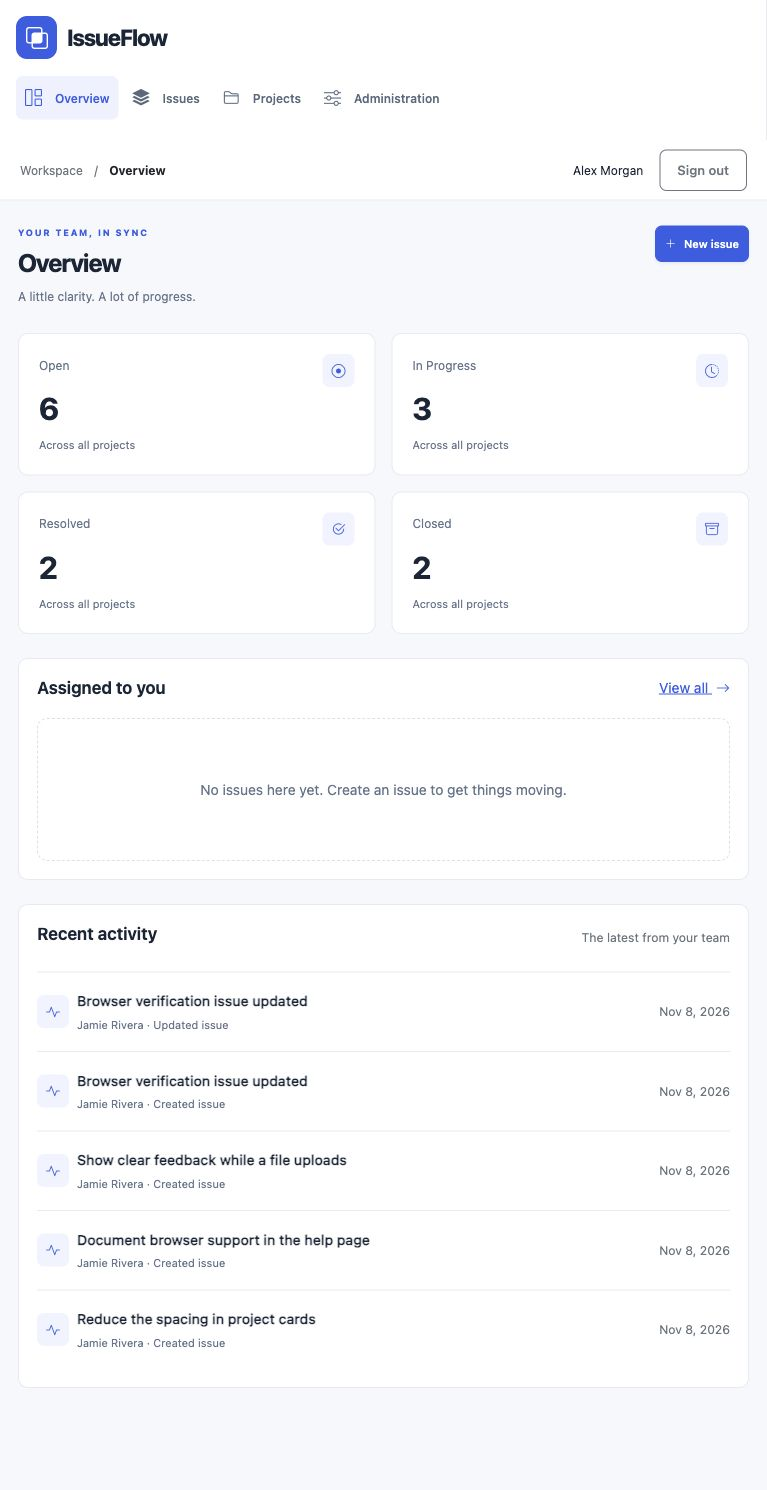
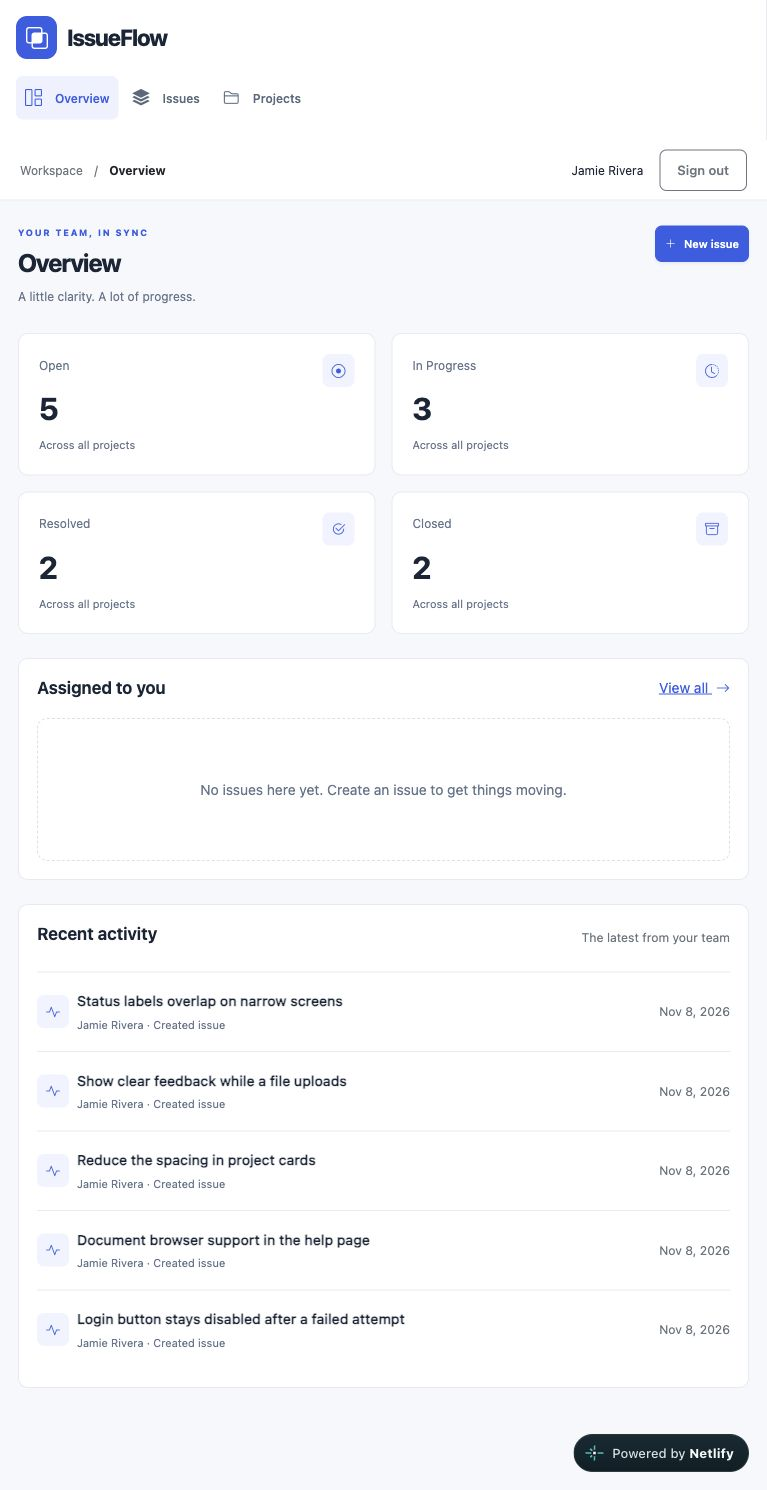
deploy: publish app and document evaluator walkthrough

diff --git a/public/404.html b/public/404.html
@@ -1,0 +1,1 @@
+<!doctype html><html lang="en"><head><meta charset="utf-8"><meta name="viewport" content="width=device-width,initial-scale=1"><title>Page not found · IssueFlow</title></head><body><main><h1>Page not found</h1><p>This page does not exist.</p><a href="/index.html">Return to IssueFlow</a></main></body></html>

diff --git a/docs/progress.md b/docs/progress.md
@@ -1,36 +1,48 @@
 # Implementation progress
 
-Started November 8, 2026 (Europe/Sofia).
+State: `paused_before_commit_14` once this thirteenth milestone is pushed and its production rollout is verified in chat. Do not create another implementation commit on November 8.
 
-- Milestone 1: scope and agent instructions prepared; Git identity and remote connection pending.
-- Milestones 2–13: pending.
-- Milestone 14: reserved for November 9; user continuation required.
-- Milestone 15: reserved for November 10; user continuation required.
+Live app: https://issueflow-petarbinev.netlify.app
+Repository: https://github.com/petarbinev/issueflow
+Supabase project: `ynpgrmkpfdlikckuravp` (IssueFlow, Frankfurt).
+Netlify project: `b6d85424-5e59-4a38-bfe5-705c0d3d76bc`, team `pbinev`, Git deployment from `main`.
 
-GitHub and Supabase connections are not yet confirmed. No cloud acceptance tests have run.
+## Commit ledger
 
-Milestone 1: pushed `59b3e0d` to https://github.com/petarbinev/issueflow.
-Milestone 2: eight-page Vite scaffold, shared responsive shell, environment handling, CI, and validation checks prepared. Lint, 2 tests, and all eight production HTML outputs passed.
-Supabase project: `ynpgrmkpfdlikckuravp` (IssueFlow, Frankfurt), created with the user's organization confirmation.
+| Milestone | SHA | Actual author timestamp | Scope |
+|---|---|---|---|
+| 1 | `59b3e0d` | 2026-11-08T09:51:15+02:00 | docs: define project scope and development rules |
+| 2 | `7ccfa1a` | 2026-11-08T09:55:22+02:00 | chore: scaffold Vite multi-page app and checks |
+| 3 | `7a7f0d5` | 2026-11-08T09:57:41+02:00 | feat: add database schema and reproducible migrations |
+| 4 | `61f69dd` | 2026-11-08T10:01:06+02:00 | feat: enforce roles and database access policies |
+| 5 | `a67b518` | 2026-11-08T10:01:59+02:00 | feat: implement authentication and shared navigation |
+| 6 | `fe82f0c` | 2026-11-08T10:03:04+02:00 | feat: add project browser and dashboard |
+| 7 | `870b4a7` | 2026-11-08T10:03:30+02:00 | feat: implement issue creation and editing |
+| 8 | `61bc353` | 2026-11-08T10:04:40+02:00 | feat: add issue search filters and pagination |
+| 9 | `b1946af` | 2026-11-08T10:06:17+02:00 | feat: add issue discussion and activity history |
+| 10 | `0598e86` | 2026-11-08T10:07:50+02:00 | feat: add secure attachment upload and download |
+| 11 | `a23f481` | 2026-11-08T10:08:21+02:00 | feat: implement administrator management tools |
+| 12 | `042d711` | 2026-11-08T10:16:28+02:00 | test: verify responsive workflows and authorization |
+| 13 | See the commit containing this checkpoint | November 8, 2026 | Deploy configuration, live app, setup and evaluator documentation |
 
-Milestone 3: seven-table schema applied to the empty hosted project with RLS enabled on all tables. Local embedded PostgreSQL rebuild and constraint checks passed (3 tests total). Local migration filename matches hosted migration version `20261108075544`. ER diagram added.
+The milestone 13 SHA and final deployment/CI result are reported in the implementation chat; inspect `git log -1` for the exact checkpoint. No amended commit is needed to record its own SHA.
 
-Milestone 4: hosted RLS, column grants, assignee restrictions, provisioning, activity triggers and serialized last-admin protection applied. Four local tests pass, including direct SQL authorization attempts under the authenticated/anon roles. These simulate auth/storage schemas; hosted API tests remain required.
+## Verified
 
-Milestone 5: registration/login forms, confirmation guidance, sign-out, session guards, role-aware navigation, safe rendering and error handling implemented. Lint, four local tests and production build pass; hosted auth journey to be checked in milestone 12.
+- All milestones 1–12 were individually committed and pushed; GitHub Actions passed each code-bearing push.
+- Local ESLint, four tests, and eight-entry Vite production build passed.
+- Embedded PostgreSQL tests rebuild the application schema and check foreign keys, constraints, role escalation, assignee restrictions, immutable reporter identity, forged activity, last-admin protection, and actual API-role function grants. Auth and Storage metadata are simulated locally.
+- Hosted API checks passed for three confirmed demo logins, guest denial, admin permissions, issue/comment ownership, assignee status updates, and private file upload/download byte equality/delete restrictions and cleanup.
+- Browser verified login, dashboard, projects, search, issue create/edit, comment persistence, sign-out/admin login, member admin-page denial and admin panel display. Temporary verification issue was cleaned up.
+- Production member login, direct issue navigation and reload passed. All eight HTML URLs returned HTTP 200 and a missing page returned HTTP 404.
+- Supabase Auth site URL and production/local `/index.html` returns saved and observed. Actual new-user email delivery has not been exercised.
+- Local/remote migrations match versions 20261108075544, 20261108075747, 20261108080623, 20261108081410.
+- Security advisor inherited-function-grant warnings were fixed. Intended authenticated helper/RPC notices and disabled leaked-password protection are explained in docs/security.md.
+- A fictional `sample-evidence.txt` attachment is stored on the demo login issue; a provisioning script is included.
 
-Milestone 6: projects browser and dashboard use Supabase queries for status counts, assigned issues, and recent activity. Empty states implemented; lint and production build pass. Demo data and live journey checks remain pending.
+## Remaining work on the two reserved days
 
-Milestone 7: create/edit/detail/delete issue workflow implemented, including permission-aware actions, validated fields, assignment and unsaved-change warning. Lint and production build pass. Storage prevents deleting issues that still contain files.
+- **November 9, 2026 (Europe/Sofia), commit 14:** fresh-day regression review, real phone-width/device QA, persisted sessions/direct navigation/retry cases, and any discovered fixes. Available browser viewport overrides were clamped to an observed 767px, so 375px and 1440px checks are not claimed.
+- **November 10, 2026 (Europe/Sofia), commit 15:** fresh-checkout setup validation, final screenshots/submission/evidence audit, demo-account review and final live checks. Verify at least 15 public commits on three actual dates.
 
-Milestone 8: title search, combined project/status/priority/assignee filters, stable server pagination, URL persistence and reset controls implemented. Lint and production build pass.
-
-Milestone 9: comments create/edit/delete, reporter/assignee status controls and database-written activity history implemented. Lint and build pass. Fictional demo accounts, two projects and twelve sample issues provisioned in the dedicated project for live testing; no real user data used.
-
-Milestone 10: private bucket migration applied, local filename matches remote `20261108080623`; attachment upload/download/delete and partial-failure cleanup implemented. Four local tests and production build pass. Live file round trip is scheduled in milestone 12.
-
-Milestone 11: admin project create/edit/archive/restore, transactional member/admin role management, and moderation navigation implemented. Member access blocked by both page guard and database. Lint/build pass; live verification underway.
-
-Milestone 12: live API tests passed for three demo logins, guest denial, role/project restrictions, reporter/assignee column permissions, comment ownership and private file byte integrity/cleanup. Browser verified member login, dashboard, projects/search, issue create/edit, comment persistence, sign-out, admin access and member denial. Saved dashboard screenshot. Browser viewport override was clamped to 767px; phone-size QA remains pending and is explicitly recorded in the evidence file.
-
-Security-advisor findings about inherited function grants were fixed in migration `20261108081410`; tests now simulate Supabase default grants and assert internal trigger functions are not client-executable. Hosted API tests passed again after hardening. Remaining advisor notices are documented in docs/security.md.
+Resume each only when the user returns on that date or later. Keep actual timestamps, no empty commits, no squashing/backdating. Pause and notify after commit 14 as well.

diff --git a/README.md b/README.md
@@ -1,9 +1,49 @@
 # IssueFlow
 
-A small-team issue tracker built for the SoftUni Software Technologies with AI capstone.
+IssueFlow is a small-team issue tracker built for the SoftUni **Software Technologies with AI** capstone. Track issues across projects, assign work, discuss updates, upload evidence, and follow progress from Open to Closed.
 
-Stack: vanilla JavaScript, HTML/CSS, Bootstrap, Vite; Supabase Database/Auth/Storage; GitHub; Netlify.
+- **Frontend:** HTML, CSS, vanilla JavaScript, Bootstrap and Bootstrap Icons, Vite.
+- **Backend:** Supabase PostgreSQL, Auth, REST API and private Storage.
+- **Delivery:** public GitHub repository and Git-based Netlify deployment.
 
-See [PROJECT_PLAN.md](PROJECT_PLAN.md) for assessment coverage and the fifteen-commit delivery schedule. See [docs/progress.md](docs/progress.md) for actual implementation status.
+## Run locally
 
-Implementation in progress. Cloud services and evaluator accounts have not been provisioned yet.
+Use Node 24. Run `npm ci`, copy `.env.example` to `.env.local`, enter your Supabase URL and public publishable key, then run `npm run dev`. The terminal prints the local app URL. Run `npm run check` for lint, local tests and the production build.
+
+See [deployment and database setup](docs/deployment.md) for migrations, local Supabase, and hosting configuration.
+
+## Users and features
+
+All registered users share one team workspace. Members create and manage their reported issues, update issues assigned to them, and manage their own comments/files. Admins manage projects and roles and moderate team content. Database policies enforce the same rules when the UI is bypassed.
+
+Eight separate screens cover the dashboard, login, registration, projects, issue search, issue details, create/edit, and administration. Search supports combined filters and server pagination. Files support explicit upload/download/delete through a private bucket.
+
+## Evaluation
+
+Repository: https://github.com/petarbinev/issueflow
+
+Live app: https://issueflow-petarbinev.netlify.app
+
+Dedicated public demo logins are documented in the [evaluator guide](docs/demo-guide.md). All use `IssueFlowDemo!2026`: `member@issueflow.example`, `reviewer@issueflow.example`, and `admin@issueflow.example`. Use fictional data only.
+
+Author: Petar Binev (`petarbinev`); public commit contact: `petarbinev@users.noreply.github.com`.
+
+## Project guide
+
+| Path | Purpose |
+|---|---|
+| Root HTML files | Eight independent Vite page entry points |
+| `src/pages` | Page controllers |
+| `src/components` | Shared shell, issue rendering, forms, discussion and files |
+| `src/services` | Supabase data and business operations |
+| `src/lib` | Supabase configuration, sessions and page lifecycle |
+| `src/utils`, `src/styles` | Validation, safe rendering, formatting and responsive styling |
+| `supabase/migrations` | Versioned schema, RLS, functions, private bucket and hardening |
+| `supabase/seed.sql` | Dedicated fictional evaluation accounts and data |
+| `tests` | Embedded PostgreSQL and validation tests |
+| `scripts/verify-hosted.mjs` | Live auth/permissions/file lifecycle checks against the dedicated demo project |
+| `.github` | Required AI instructions and CI workflow |
+
+Read the [architecture and ER diagram](docs/architecture.md), [security model](docs/security.md), [assessment evidence](docs/assessment-evidence.md), and [project plan](PROJECT_PLAN.md).
+
+The commit schedule reserves meaningful work for November 9 and 10, 2026. Implementation must pause after milestone 13 and again after milestone 14. The three-day criterion is incomplete until those later commits actually exist.

diff --git a/docs/deployment.md b/docs/deployment.md
@@ -1,0 +1,34 @@
+# Deployment and local development
+
+## Local frontend
+
+Use Node 24 (see `.nvmrc`). Run `npm ci`, copy `.env.example` to `.env.local`, and supply your Supabase API URL and public publishable key. Run `npm run dev`, then open the printed local URL. `npm run check` runs ESLint, local PostgreSQL/validation tests, and the Vite production build. `npm run preview` serves `dist` after a build.
+
+The project public settings are available in Supabase Project Settings → API. Never use a secret/service-role key in `VITE_*` variables. `.env.local`, `.netlify`, build files, dependency files, and test reports are ignored.
+
+## Database setup
+
+Install the Supabase CLI and a supported container runtime for a complete local Supabase environment. From the project root, run `supabase start` and `supabase db reset`. The checked-in config, ordered migrations, and demo seed rebuild the backend. The seed uses pgcrypto in the Supabase `extensions` schema and confirmed fictional Auth users; apply only to the dedicated demonstration backend.
+
+For a new hosted project, log in through `supabase login`, run `supabase link --project-ref YOUR_PROJECT_REF`, then review `supabase db push --dry-run` before `supabase db push`. Apply the demo seed only to the selected capstone project through its SQL editor. Local tests use embedded PostgreSQL and simulated Auth/Storage metadata; they are not a replacement for resetting a full Supabase instance or testing its Storage API.
+
+If starting from an existing database, pull its baseline first with `supabase db pull`. Compare `supabase migration list` after each change. This project's migration filenames match the versions returned by the hosted migration history. Do not reapply an already recorded migration. Commit every schema/policy/function/bucket change as SQL.
+
+## Netlify
+
+Connect the existing `petarbinev/issueflow` repository to the `pbinev` Netlify team, using branch `main`. Build command: `npm run build`; publish directory: `dist`; Node: `24`.
+
+Set these build environment variables in Netlify:
+
+- `VITE_SUPABASE_URL`: selected project API URL.
+- `VITE_SUPABASE_PUBLISHABLE_KEY`: selected project public publishable key.
+
+Both values are intentionally public in browser builds. Do not disable secret scanning. No SPA catch-all rewrite is used; every page is built as a separate HTML output. Netlify may canonicalize `.html` URLs; query strings and reloads must continue to work. `public/404.html` supplies a true not-found page.
+
+In Supabase Auth URL Configuration, set the production site URL and allow its `/index.html` confirmation return, plus the local development URL/return. Pre-confirmed demo accounts bypass email delivery for assessment. New registrations with confirmation enabled require working email delivery and allowed redirects.
+
+A push to `main` triggers a new build. Review build results and production behavior before marking deployment complete. For a bad published change, fix forward with a new commit; do not rewrite assessment history.
+
+## Verified deployment
+
+Live site: https://issueflow-petarbinev.netlify.app. Git source: `petarbinev/issueflow`, branch `main`, Netlify team `pbinev`. Production Auth site and three explicit return URLs were saved. Run `node scripts/verify-deployment.mjs` to check eight HTML routes and the real 404. Run `npm run test:hosted` for the dedicated backend checks. Demo attachment provisioning is available with `node scripts/seed-attachment.mjs`.

diff --git a/docs/assessment-evidence.md b/docs/assessment-evidence.md
@@ -1,19 +1,19 @@
 # Assessment evidence
 
-Status on November 8, 2026: implementation and validation through milestone 12. Maximum points remain a target, not an awarded score.
+Status on November 8, 2026: implementation through the deployment checkpoint (milestone 13). Maximum points remain a target, not an awarded score.
 
 | Criterion | Evidence | Status |
 |---|---|---|
-| 15 commits | Public Git history and docs/progress.md | 12 commits planned through this milestone; final deployment and two later-day commits pending |
+| 15 commits | Public Git history and docs/progress.md | 13 commits at this checkpoint; two later-day commits pending |
 | 3 commit days | Actual Git timestamps | Day 1 only; Nov 9 and 10 reserved |
 | Architecture | Eight HTML files, vite.config.js, src/services and components | Build passed |
 | Five responsive screens | Eight page controllers, shared responsive CSS | Desktop and 767px browser reviewed; narrow phone widths need further review |
 | Four DB tables | Seven tables, versioned SQL, ER diagram | Schema rebuild and hosted migrations verified |
 | Admin panel | src/pages/admin.js and set_user_role RPC | Browser access/denial and hosted privilege checks passed |
 | File storage | Private bucket migration and attachment service | Hosted byte-equality upload/download and unauthorized-delete denial passed |
-| Deployment | Netlify production URL | Pending Git linking and deployment |
+| Deployment | [Live app](https://issueflow-petarbinev.netlify.app) | Published from GitHub; production member login, navigation/reload and eight direct routes passed |
 | Auth/security | SQL grants/RLS, tests/security.test.js, scripts/verify-hosted.mjs | Four local tests and live API checks passed |
-| Documentation | README, architecture, security, deployment, demo guide | In progress; final submission audit reserved for Nov 10 |
+| Documentation | README, architecture, security, deployment, demo guide | Setup and evaluator documentation complete; final submission audit reserved for Nov 10 |
 
 Browser checks performed through the real UI: member login, dashboard, search, issue create/edit, comment creation, detail navigation, sign-out/admin login, member admin-page denial, admin panel and projects display. Temporary browser-created issue was removed through trusted cleanup. Responsive viewport requests were clamped to an observed 767px by the available browser; do not claim 375px/1440px verification from those requests.
 

diff --git a/docs/demo-guide.md b/docs/demo-guide.md
@@ -8,11 +8,13 @@ All demo accounts use `IssueFlowDemo!2026`. These are fictional app-only account
 | Member/reporter | member@issueflow.example |
 | Member/assignee | reviewer@issueflow.example |
 
+Live app: https://issueflow-petarbinev.netlify.app
+
 1. Sign in as member. Inspect dashboard counts and projects.
 2. Open Issues, combine status/priority/project filters, search a title, and use pagination.
 3. Create an issue in an active project, select a priority/assignee, and reload its detail URL.
 4. Edit the title/description. Post a comment and edit/delete your own comment.
-5. Upload a small text file or image, reload, download it, and compare the content. Delete the attachment before deleting the issue.
+5. On the demo login issue, download the existing `sample-evidence.txt`. Upload a small text file or image, reload, download it, and compare the content. Delete the attachment before deleting the issue.
 6. Sign in as reviewer to update the status of an assigned issue. Full edits of another reporter's issue are denied.
 7. Sign in as admin. Create/edit/archive a project, change a member role, and moderate an issue/comment/file.
 8. Attempt to demote the final admin; the database rejects it. Restore any other role changes after testing.

diff --git a/PROJECT_PLAN.md b/PROJECT_PLAN.md
@@ -1,6 +1,6 @@
 # IssueFlow — issue tracking system project plan
 
-Status: planning only; no app, repository, cloud resources, or commits created yet.
+Status: implementation started November 8, 2026. See docs/progress.md for verified milestones and the required pause before commit 14.
 Prepared November 8, 2026. All scheduling uses Europe/Sofia.
 
 ## Objective and scope
